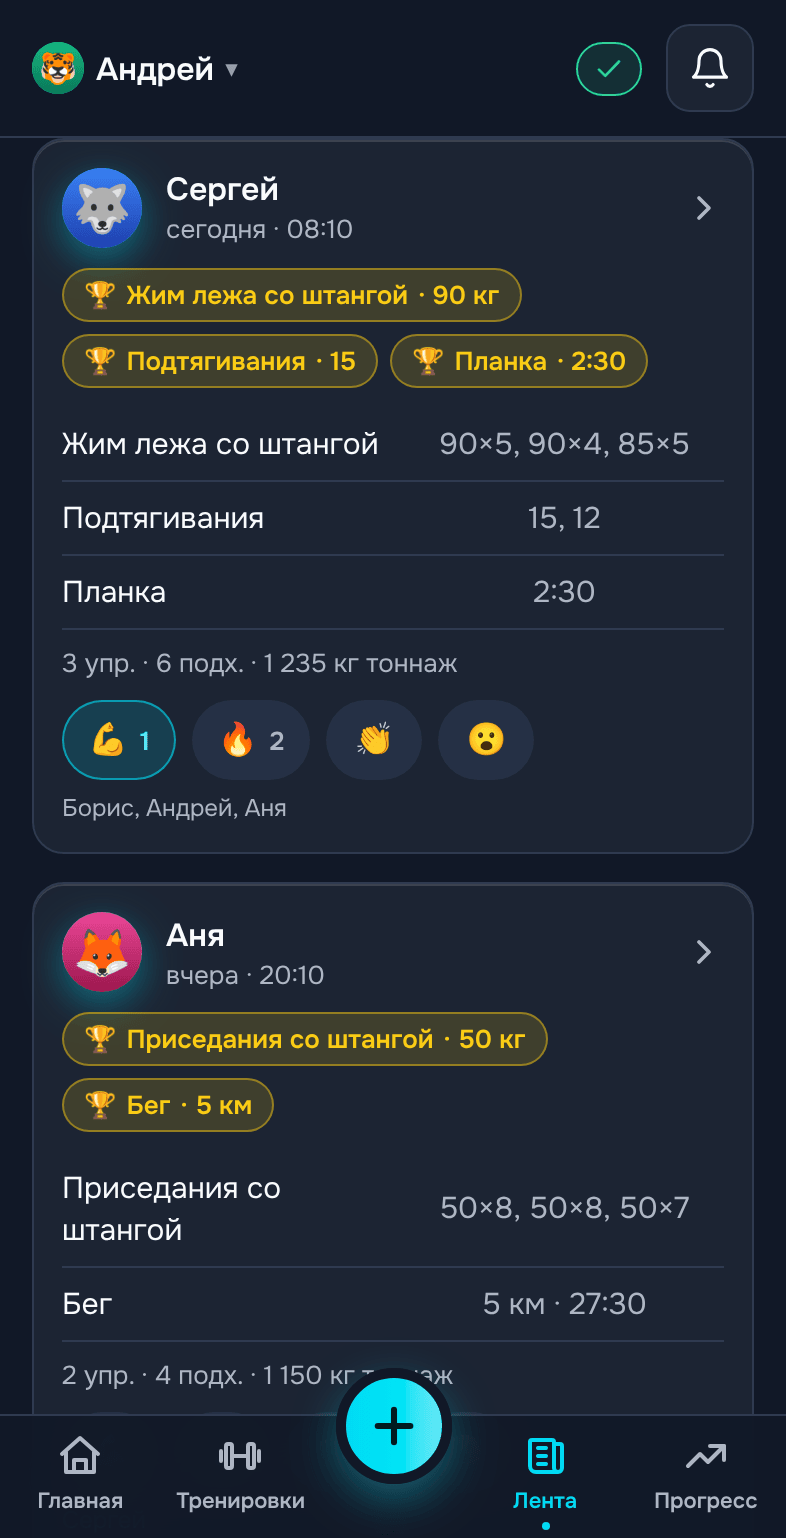
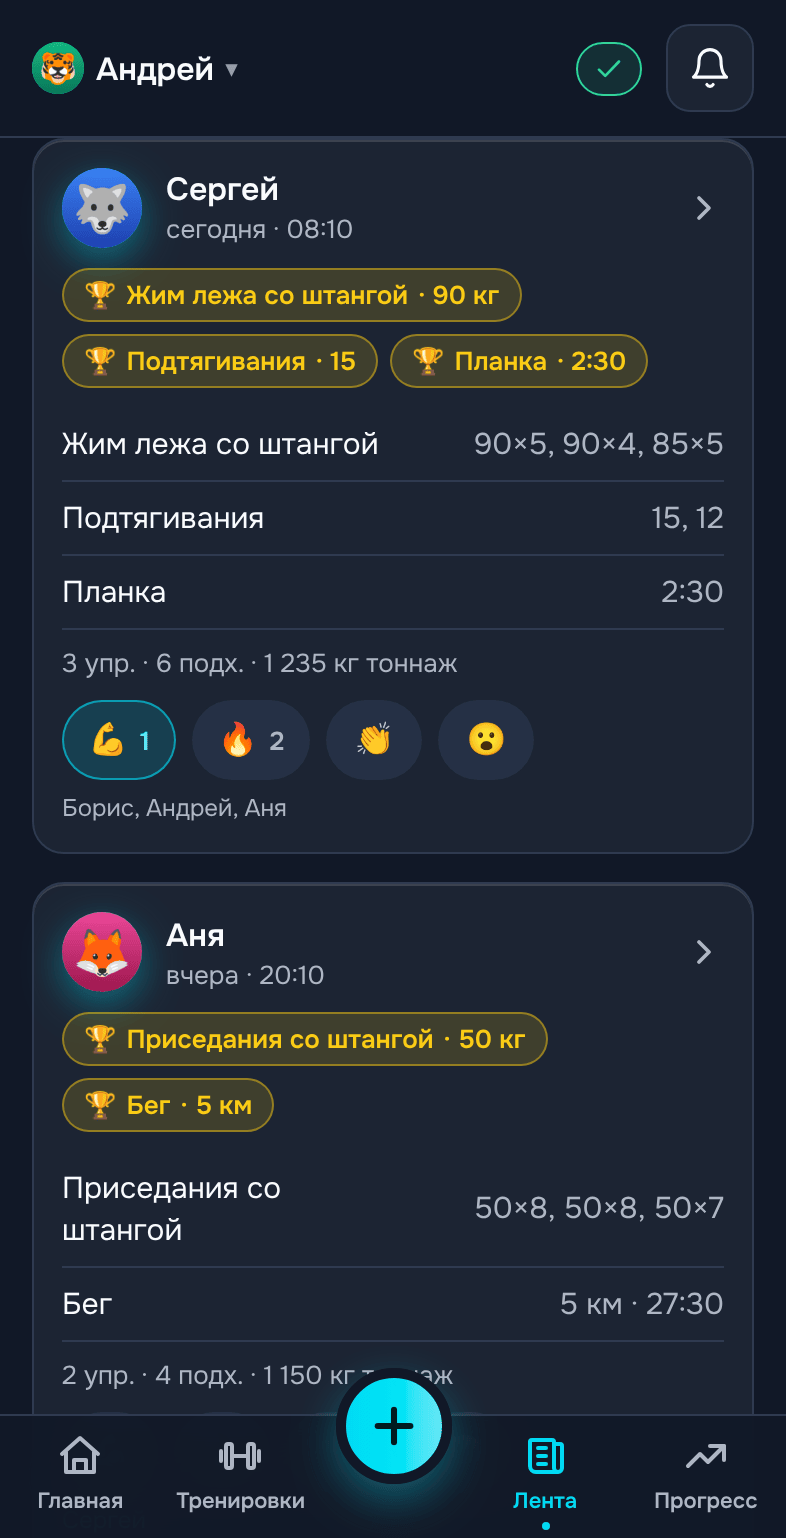
fix(feed): подходы в карточках по правому краю

diff --git a/src/index.css b/src/index.css
@@ -1253,7 +1253,8 @@ a.btn { display: block; text-align: center; text-decoration: none; }
 .history-list { list-style: none; margin: 10px 0 0; padding: 0; }
 .history-ex {
   /* Таблица из двух столбцов без видимых границ (v7.4.1): название — левая половина,
-     подходы — правая, по центру столбца и по центру строки. Раньше flex: длинное
+     подходы — правая, по правому краю (v7.5.3; по центру короткие «15, 12» висели
+     посередине, а длинные упирались в край — ровной границы не было), по центру строки. Раньше flex: длинное
      название забирало всю строку, и колонкам подходов доставался один столбец. */
   display: grid; grid-template-columns: minmax(0, 1fr) minmax(0, 1fr); column-gap: 12px;
   padding: 8px 0; border-top: 1px solid var(--border);
@@ -1266,7 +1267,7 @@ a.btn { display: block; text-align: center; text-decoration: none; }
    своя половина строки (v7.4.1), поэтому ни название, ни подходы не отнимают место
    друг у друга; длинное название переносится по словам в своей половине. */
 .history-ex-sets {
-  color: var(--muted); font-size: 14px; line-height: 1.35; text-align: center;
+  color: var(--muted); font-size: 14px; line-height: 1.35; text-align: right;
   min-width: 0; white-space: normal; overflow-wrap: normal; word-break: keep-all;
 }
 

diff --git a/src/content/whatsNew.js b/src/content/whatsNew.js
@@ -22,7 +22,7 @@
 
 export const WHATS_NEW = [
   {
-    version: '7.5.2',
+    version: '7.5.3',
     date: '2026-10-13',
     push: false,
     headline: 'Сканер на весь экран и новый бот для PIN',
@@ -34,7 +34,7 @@ export const WHATS_NEW = [
     ],
     minor: [
       { e: '📷', t: 'Значок сканера теперь справа в поле поиска упражнений' },
-      { e: '📋', t: 'Упражнения в Ленте — ровной таблицей, длинные названия не мешают' },
+      { e: '📋', t: 'Упражнения в Ленте — ровной таблицей, подходы по правому краю' },
       { e: '🧗', t: 'Доп. вес и помощь — одной строкой «+15×12, −20×10», без колонок' },
       { e: '🧹', t: 'Пустая новая тренировка — со знаком приложения вместо старой гантели' },
       { e: '🔤', t: 'Названия упражнений — везде через «е», без «ё»' },
